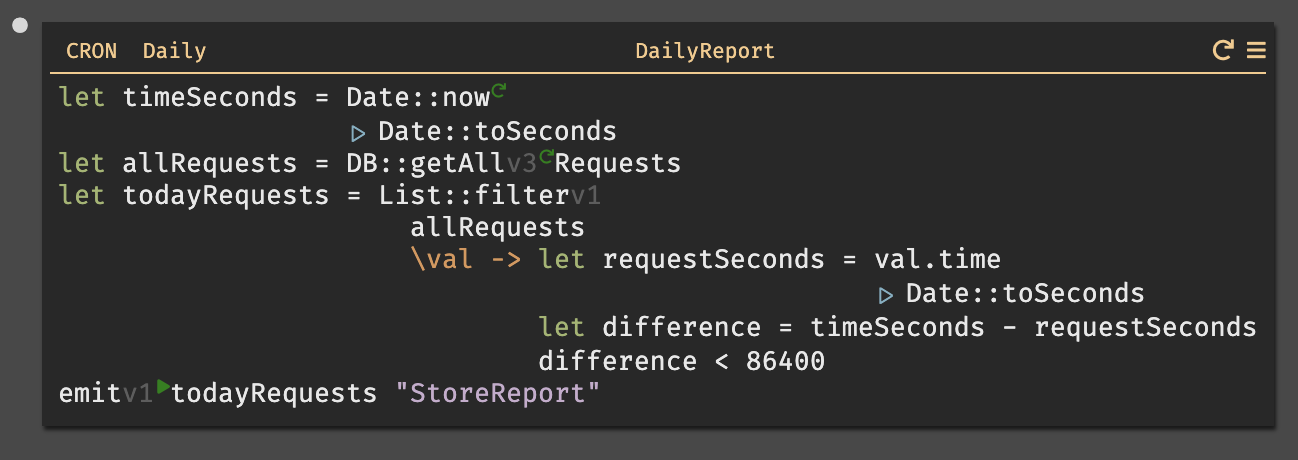
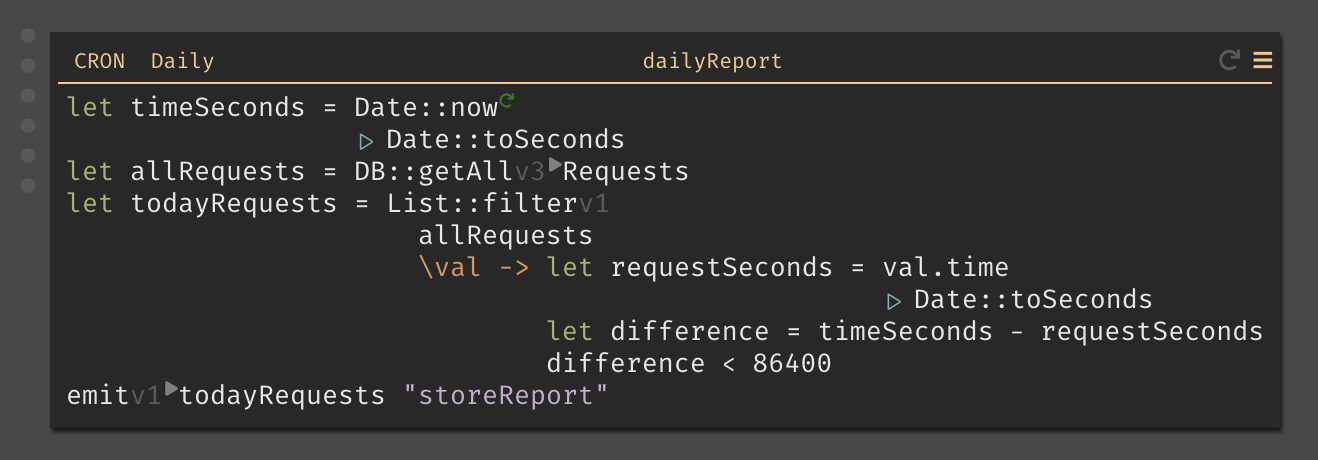
fix storeReport capitalization in getting started

Changed region(s): [[0.0, 0.0304, 0.9861, 0.9435]]

diff --git a/docs/first-worker.md b/docs/first-worker.md
@@ -9,7 +9,7 @@ don't want to handle in HTTP requests.
 
 If we were doing this for real, we might send the data to a 3rd party API over HTTP. But for the sake of simplicity, let's just store the data into the `DailyReport` datastore.
 
-1. From the 404 section of the sidebar, hit the plus (+) button to create the `storeReport` Worker. The Worker will already be named, and hovering over the white dot will show you the event triggered by your cron.
+1. From the 404 section of the sidebar, hit the plus (+) button to create the `StoreReport` Worker. The Worker will already be named, and hovering over the white dot will show you the event triggered by your cron.
 
 ![assets/gettingstarted/newworker.png](assets/gettingstarted/newworker.png)
 
